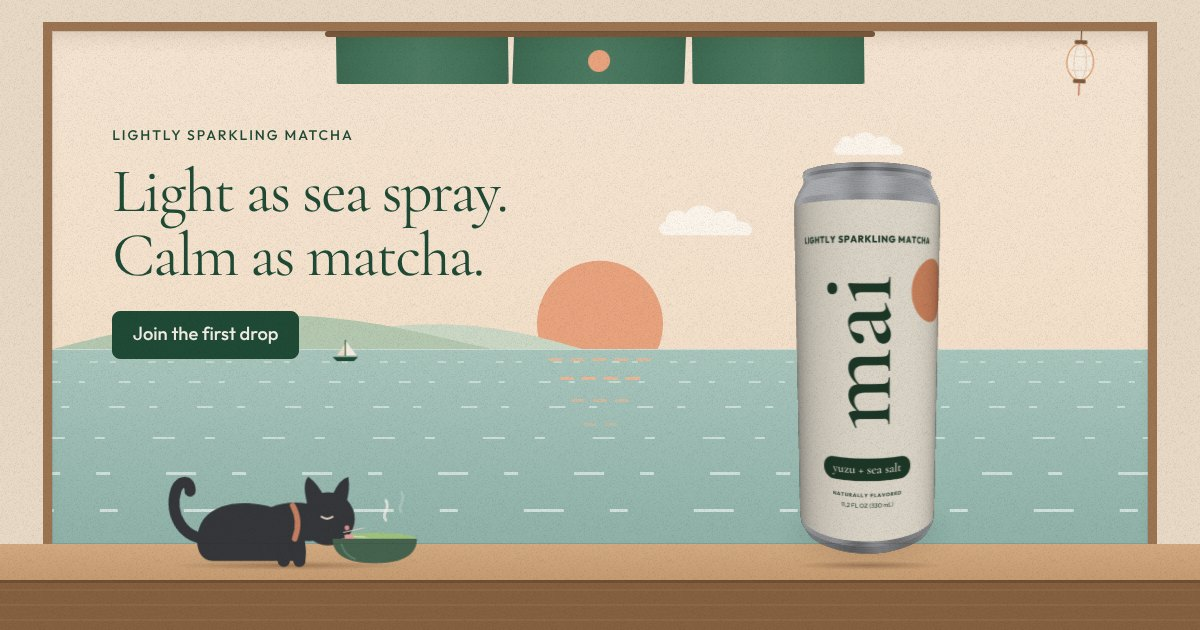
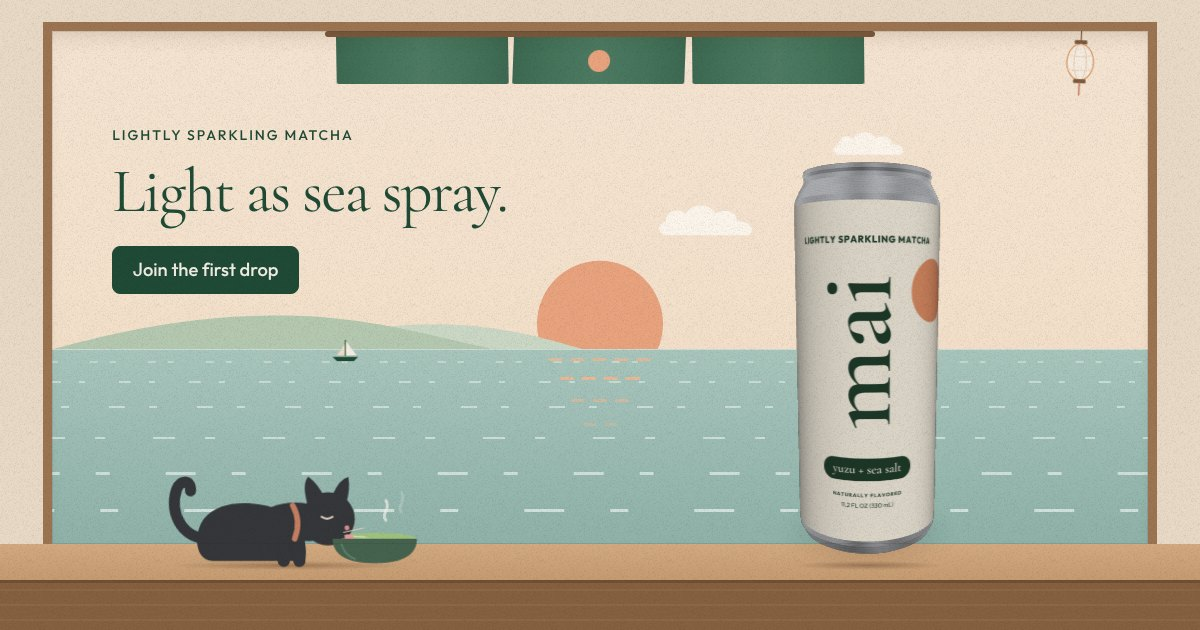
Day headline is just Light as sea spray.; share title and image follow
Claude-Session: https://claude.ai/code/session_01FwxFS1f6EJvN2vJMvkfyZM

Changed region(s): [[0.0925, 0.3619, 0.4008, 0.573]]

diff --git a/index.html b/index.html
@@ -12,7 +12,7 @@
     <meta property="og:type" content="website" />
     <meta property="og:site_name" content="Mai" />
     <meta property="og:url" content="https://drinkmai.com/" />
-    <meta property="og:title" content="Mai | Light as sea spray. Calm as matcha." />
+    <meta property="og:title" content="Mai | Light as sea spray." />
     <meta
       property="og:description"
       content="Sparkling matcha yuzu with a pinch of sea salt. Quiet bubbles, lightly sweetened. Denver cafés first. Join the waitlist."
@@ -23,7 +23,7 @@
     <meta property="og:image:height" content="630" />
     <meta property="og:image:alt" content="A cat laps matcha in a seaside café beside a can of Mai sparkling matcha." />
     <meta name="twitter:card" content="summary_large_image" />
-    <meta name="twitter:title" content="Mai | Light as sea spray. Calm as matcha." />
+    <meta name="twitter:title" content="Mai | Light as sea spray." />
     <meta
       name="twitter:description"
       content="Sparkling matcha yuzu with a pinch of sea salt. Quiet bubbles, lightly sweetened. Denver cafés first. Join the waitlist."
@@ -229,7 +229,7 @@
 
         <div class="cafe-copy">
           <p class="cafe-kicker scene-kicker">Lightly sparkling matcha</p>
-          <h1 id="cafe-title" class="scene-title"><span class="scene-line">Light as sea spray.</span> <span class="scene-line">Calm as matcha.</span></h1>
+          <h1 id="cafe-title" class="scene-title"><span class="scene-line">Light as sea spray.</span></h1>
           <button type="button" class="button" data-join-open data-join-email data-inline-cta>Join the first drop</button>
         </div>
 

diff --git a/script.js b/script.js
@@ -7,7 +7,7 @@
   var MAI_FORM_ENDPOINT = "https://script.google.com/macros/s/AKfycbzAApV9JJIrnMDqb7frgjvPsKt3FBzTGr20s77TyDJYcAGqQ8irx1ucuNhXkNFsJ3Ju9A/exec";
 
   var SHARE_URL = "https://drinkmai.com";
-  var SHARE_TEXT = "Light as sea spray. Calm as matcha. Join the first drop.";
+  var SHARE_TEXT = "Light as sea spray. Join the first drop.";
   var STORAGE = "mai-joined";
   var DISMISS = "mai-popup-dismissed-2";
   var SESSION = "mai-popup-shown-2";
